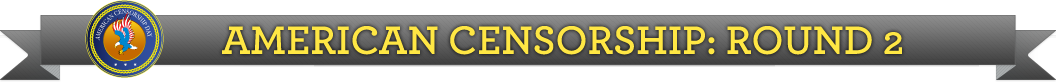
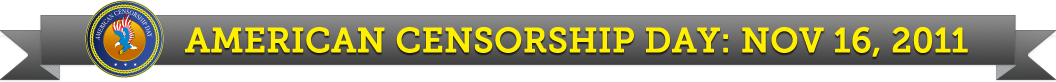
nov 16 version

Changed region(s): [[0.1562, 0.2927, 0.9375, 0.7073], [0.2812, 0.7805, 0.75, 0.8049]]

diff --git a/public/nov16.html b/public/nov16.html
@@ -6,8 +6,8 @@
     <link href="style.css" rel="stylesheet" type="text/css" />
     <link rel="shortcut icon" href="http://americancensorship.org/favicon.ico" />
 
-    <meta property="og:title" content="American Internet Censorship is Real and Happening -- Stop it!" />
-    <meta property="og:description" content="A bill that is very likely to pass will let government and corporations censor the internet, take down sites at the behest of corporations. My favorite sites and friends have to step up now to help stop it, or it passes: http://americancensorship.org" />
+    <meta property="og:title" content="The Internet Rose Up and Stopped American Censorship!" />
+    <meta property="og:description" content="Woh- the internet is rose up and Stopped SOPA PIPA and Internet Censorship." />
     <meta property="og:image" content="http://americancensorship.org/images/3002504.jpg" />
     <meta property="og:url" content="http://americancensorship.org" />
     <meta property="fb:admins" content="christianbryan"/>
@@ -42,9 +42,9 @@
        | <a href="http://creativecommons.org" title="Creative Commons">Creative Commons</a>
        | <a href="http://wikimediafoundation.org/" title="Wikimedia Foundation">Wikimedia</a>
     </p>
-    <a class="social" href="http://identi.ca/index.php?action=newnotice&status_textarea=My%20favorite%20sites%20could%20get%20shut%20down%20by%201st%20censorship%20system%20for%20the%20internet.%20Must%20stop%20it:%2011/16 %20http://americancensorship.org%20#usacensored" title="Share on Identi.ca"><img src="/images/small_identica.png" alt="Share on Identica"/></a>
+  
     <a class="social" href="https://www.facebook.com/sharer.php?u=http://americancensorship.org&t=American%20Censorship"><img src="images/small_fb.png" /></a>
-    <a class="social" href="https://twitter.com/share?text=My%20favorite%20sites%20could%20get%20shut%20down%20by%201st%20censorship%20system%20for%20the%20internet.%20Must%20stop%20it:%2011/16&url=http://americancensorship.org&hashtags=usacensored"><img src="images/small_tw.png" /></a>
+    <a class="social" href="https://twitter.com/share?text=Woh-%20the%20internet%20is%20rose%20up%20and%20Stopped%20%23SOPA%20%23PIPA%20and%20%23InternetCensorship.&url=http://americancensorship.org"><img src="images/small_tw.png" /></a>
 	</div>
 </div>
 <div class="moto">
